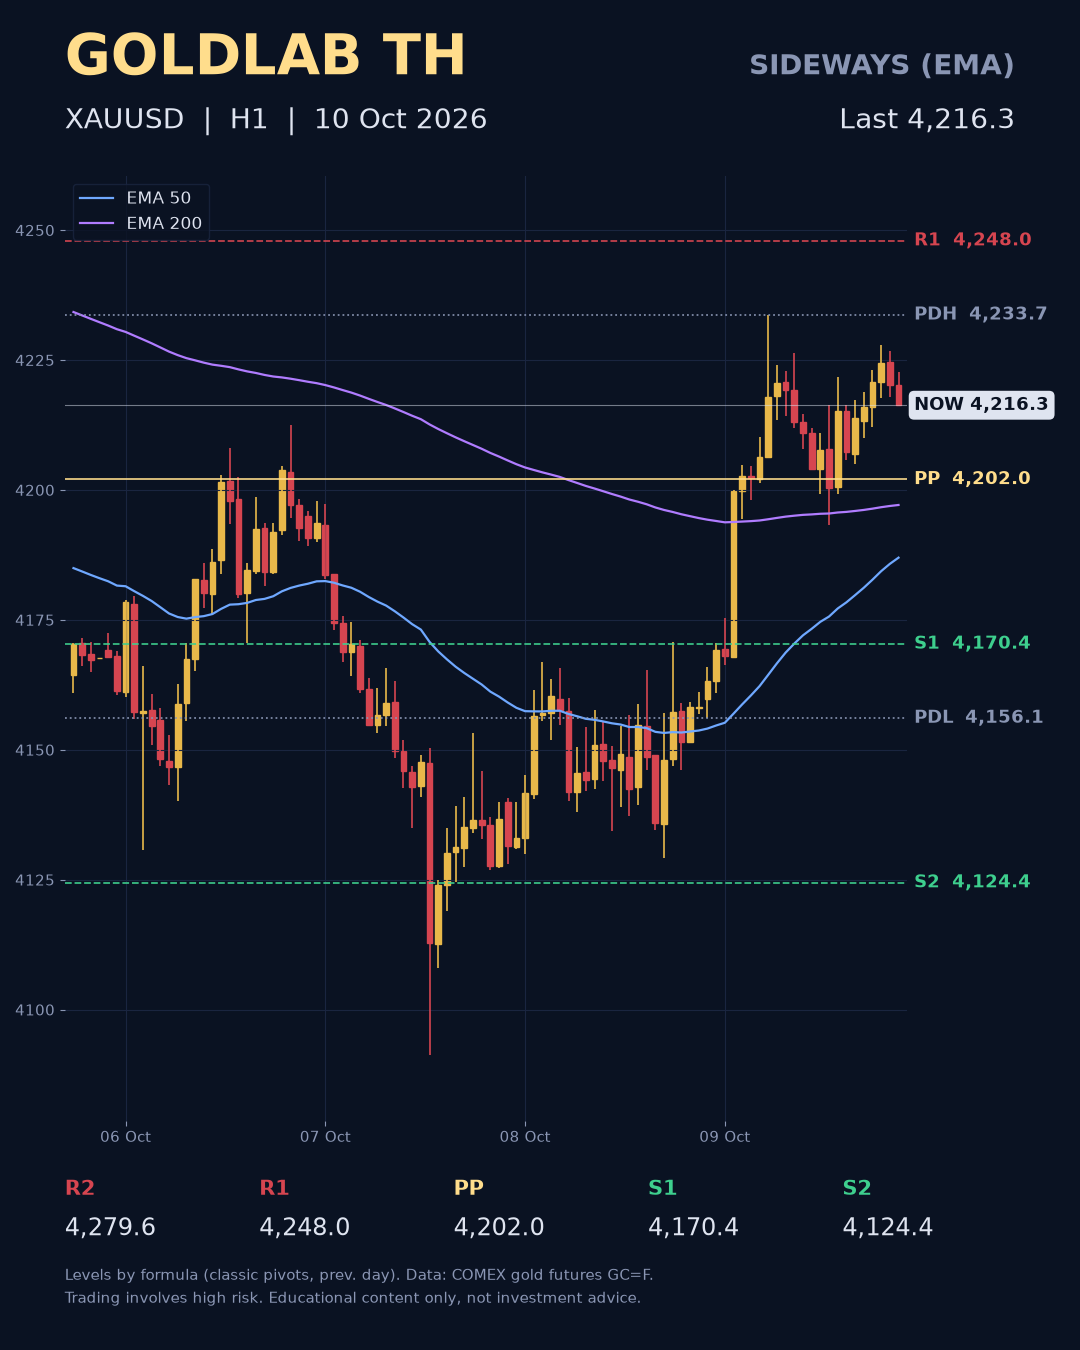
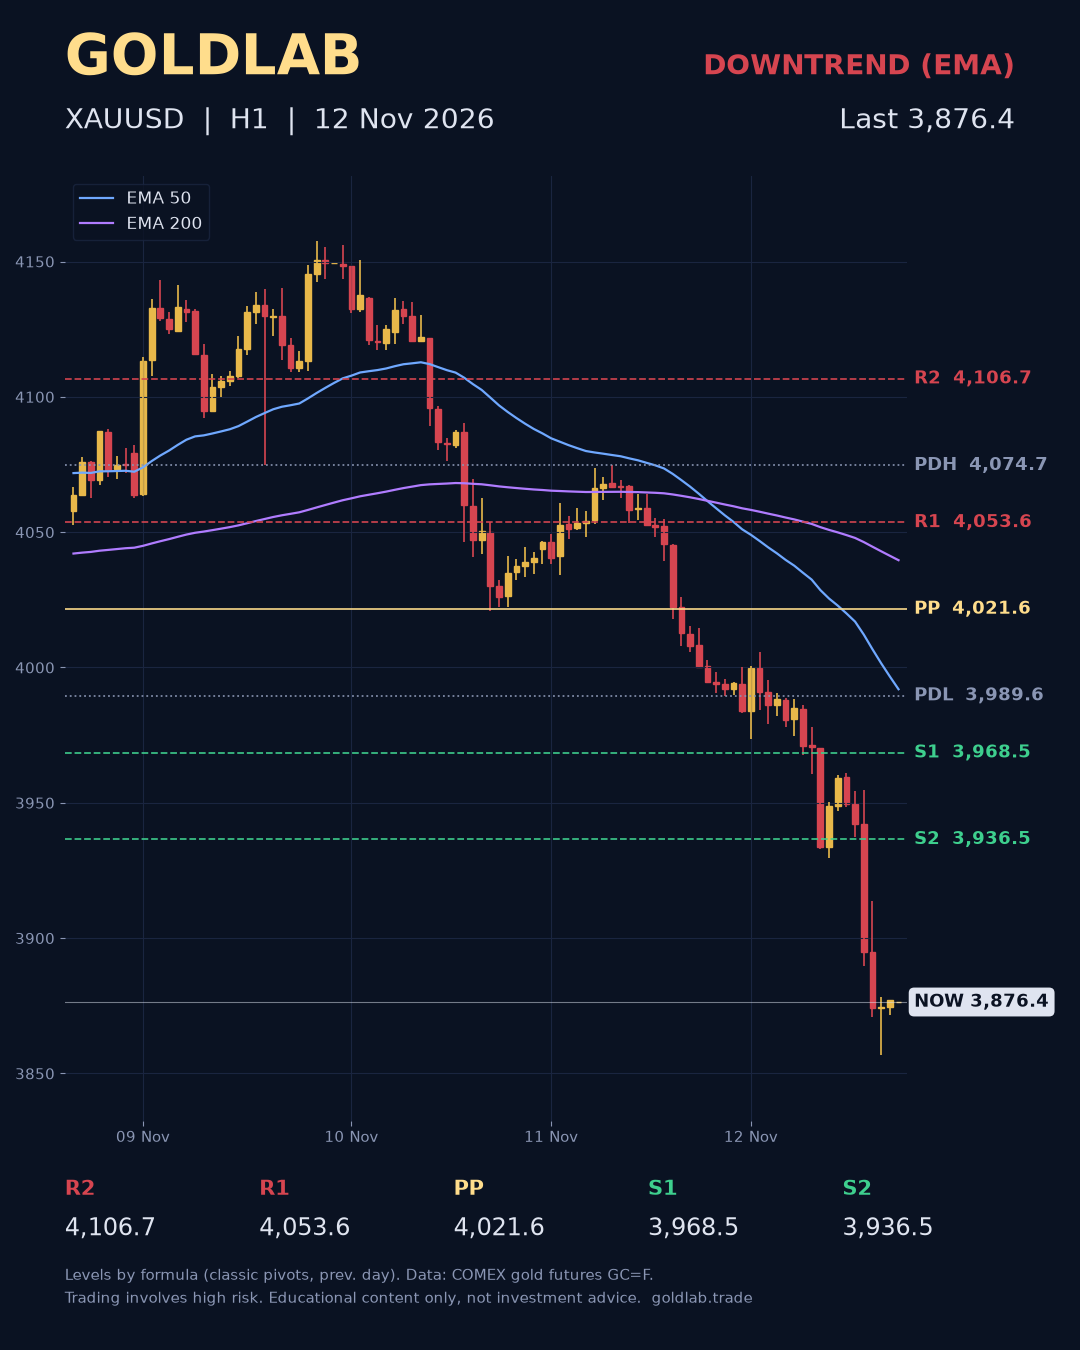
Update gold price 3,876.4 (2026-11-12 16:15 UTC)

diff --git a/th/index.html b/th/index.html
@@ -61,7 +61,7 @@
     </div>
     <figure class="chart-card">
       <img src="../assets/latest.png" alt="กราฟ XAUUSD · H1" width="1080" height="1350">
-      <figcaption class="chart-meta"><span>กราฟ XAUUSD · H1</span><span>อัปเดต <b>2026-10-10 13:10 UTC</b></span></figcaption>
+      <figcaption class="chart-meta"><span>กราฟ XAUUSD · H1</span><span>อัปเดต <b>2026-11-12 16:15 UTC</b></span></figcaption>
     </figure>
   </div>
 </section>
@@ -76,19 +76,19 @@
     <div class="levels">
       <div class="panel">
         <div class="label">ราคาล่าสุด (USD/ออนซ์)</div>
-        <div class="price-big">4,216.3</div>
-        <span class="trend ">ไซด์เวย์</span>
-        <p class="trend-note">EMA 50 และ 200 ยังไม่ยืนยันทิศทางเดียวกัน</p>
+        <div class="price-big">3,876.4</div>
+        <span class="trend down">ขาลง</span>
+        <p class="trend-note">ราคาอยู่ใต้ EMA 50 และ 200 บนกราฟ H1</p>
       </div>
       <div class="panel">
         <div class="ladder">
-          <div class="row r"><span class="tag">R2</span><span class="bar"></span><span class="val">4,279.6</span></div>
-          <div class="row r"><span class="tag">R1</span><span class="bar"></span><span class="val">4,248.0</span></div>
-          <div class="row p"><span class="tag">PIVOT</span><span class="bar"></span><span class="val">4,202.0</span></div>
-          <div class="row s"><span class="tag">S1</span><span class="bar"></span><span class="val">4,170.4</span></div>
-          <div class="row s"><span class="tag">S2</span><span class="bar"></span><span class="val">4,124.4</span></div>
+          <div class="row r"><span class="tag">R2</span><span class="bar"></span><span class="val">4,106.7</span></div>
+          <div class="row r"><span class="tag">R1</span><span class="bar"></span><span class="val">4,053.6</span></div>
+          <div class="row p"><span class="tag">PIVOT</span><span class="bar"></span><span class="val">4,021.6</span></div>
+          <div class="row s"><span class="tag">S1</span><span class="bar"></span><span class="val">3,968.5</span></div>
+          <div class="row s"><span class="tag">S2</span><span class="bar"></span><span class="val">3,936.5</span></div>
         </div>
-        <p class="src">High วันก่อน <b>4,233.7</b> · Low วันก่อน <b>4,156.1</b><br>ข้อมูล: ทองคำล่วงหน้า COMEX (GC=F) ล่าช้าประมาณ 15 นาที ราคาอาจต่างจากราคา spot ในโบรกของคุณเล็กน้อย</p>
+        <p class="src">High วันก่อน <b>4,074.7</b> · Low วันก่อน <b>3,989.6</b><br>ข้อมูล: ทองคำล่วงหน้า COMEX (GC=F) ล่าช้าประมาณ 15 นาที ราคาอาจต่างจากราคา spot ในโบรกของคุณเล็กน้อย</p>
       </div>
     </div>
   </div>

diff --git a/vi/index.html b/vi/index.html
@@ -61,7 +61,7 @@
     </div>
     <figure class="chart-card">
       <img src="../assets/latest.png" alt="Biểu đồ XAUUSD · H1" width="1080" height="1350">
-      <figcaption class="chart-meta"><span>Biểu đồ XAUUSD · H1</span><span>Cập nhật <b>2026-10-10 13:10 UTC</b></span></figcaption>
+      <figcaption class="chart-meta"><span>Biểu đồ XAUUSD · H1</span><span>Cập nhật <b>2026-11-12 16:15 UTC</b></span></figcaption>
     </figure>
   </div>
 </section>
@@ -76,19 +76,19 @@
     <div class="levels">
       <div class="panel">
         <div class="label">Giá gần nhất (USD/oz)</div>
-        <div class="price-big">4,216.3</div>
-        <span class="trend ">Đi ngang</span>
-        <p class="trend-note">EMA 50 và 200 chưa thống nhất hướng đi.</p>
+        <div class="price-big">3,876.4</div>
+        <span class="trend down">Xu hướng giảm</span>
+        <p class="trend-note">Giá nằm dưới cả EMA 50 và 200 khung H1.</p>
       </div>
       <div class="panel">
         <div class="ladder">
-          <div class="row r"><span class="tag">R2</span><span class="bar"></span><span class="val">4,279.6</span></div>
-          <div class="row r"><span class="tag">R1</span><span class="bar"></span><span class="val">4,248.0</span></div>
-          <div class="row p"><span class="tag">PIVOT</span><span class="bar"></span><span class="val">4,202.0</span></div>
-          <div class="row s"><span class="tag">S1</span><span class="bar"></span><span class="val">4,170.4</span></div>
-          <div class="row s"><span class="tag">S2</span><span class="bar"></span><span class="val">4,124.4</span></div>
+          <div class="row r"><span class="tag">R2</span><span class="bar"></span><span class="val">4,106.7</span></div>
+          <div class="row r"><span class="tag">R1</span><span class="bar"></span><span class="val">4,053.6</span></div>
+          <div class="row p"><span class="tag">PIVOT</span><span class="bar"></span><span class="val">4,021.6</span></div>
+          <div class="row s"><span class="tag">S1</span><span class="bar"></span><span class="val">3,968.5</span></div>
+          <div class="row s"><span class="tag">S2</span><span class="bar"></span><span class="val">3,936.5</span></div>
         </div>
-        <p class="src">Đỉnh phiên trước <b>4,233.7</b> · Đáy phiên trước <b>4,156.1</b><br>Dữ liệu: hợp đồng vàng tương lai COMEX (GC=F), trễ khoảng 15 phút. Giá có thể chênh vài đô la so với giá spot của sàn bạn dùng.</p>
+        <p class="src">Đỉnh phiên trước <b>4,074.7</b> · Đáy phiên trước <b>3,989.6</b><br>Dữ liệu: hợp đồng vàng tương lai COMEX (GC=F), trễ khoảng 15 phút. Giá có thể chênh vài đô la so với giá spot của sàn bạn dùng.</p>
       </div>
     </div>
   </div>

diff --git a/es/index.html b/es/index.html
@@ -61,7 +61,7 @@
     </div>
     <figure class="chart-card">
       <img src="../assets/latest.png" alt="Gráfico XAUUSD · H1" width="1080" height="1350">
-      <figcaption class="chart-meta"><span>Gráfico XAUUSD · H1</span><span>Actualizado <b>2026-10-10 13:10 UTC</b></span></figcaption>
+      <figcaption class="chart-meta"><span>Gráfico XAUUSD · H1</span><span>Actualizado <b>2026-11-12 16:15 UTC</b></span></figcaption>
     </figure>
   </div>
 </section>
@@ -76,19 +76,19 @@
     <div class="levels">
       <div class="panel">
         <div class="label">Último precio (USD/oz)</div>
-        <div class="price-big">4,216.3</div>
-        <span class="trend ">Lateral</span>
-        <p class="trend-note">La EMA 50 y la EMA 200 aún no coinciden en la dirección.</p>
+        <div class="price-big">3,876.4</div>
+        <span class="trend down">Tendencia bajista</span>
+        <p class="trend-note">El precio está por debajo de la EMA 50 y 200 en H1.</p>
       </div>
       <div class="panel">
         <div class="ladder">
-          <div class="row r"><span class="tag">R2</span><span class="bar"></span><span class="val">4,279.6</span></div>
-          <div class="row r"><span class="tag">R1</span><span class="bar"></span><span class="val">4,248.0</span></div>
-          <div class="row p"><span class="tag">PIVOT</span><span class="bar"></span><span class="val">4,202.0</span></div>
-          <div class="row s"><span class="tag">S1</span><span class="bar"></span><span class="val">4,170.4</span></div>
-          <div class="row s"><span class="tag">S2</span><span class="bar"></span><span class="val">4,124.4</span></div>
+          <div class="row r"><span class="tag">R2</span><span class="bar"></span><span class="val">4,106.7</span></div>
+          <div class="row r"><span class="tag">R1</span><span class="bar"></span><span class="val">4,053.6</span></div>
+          <div class="row p"><span class="tag">PIVOT</span><span class="bar"></span><span class="val">4,021.6</span></div>
+          <div class="row s"><span class="tag">S1</span><span class="bar"></span><span class="val">3,968.5</span></div>
+          <div class="row s"><span class="tag">S2</span><span class="bar"></span><span class="val">3,936.5</span></div>
         </div>
-        <p class="src">Máximo anterior <b>4,233.7</b> · Mínimo anterior <b>4,156.1</b><br>Datos: futuros de oro COMEX (GC=F), con ~15 min de retraso. Pueden diferir unos dólares del precio spot de tu bróker.</p>
+        <p class="src">Máximo anterior <b>4,074.7</b> · Mínimo anterior <b>3,989.6</b><br>Datos: futuros de oro COMEX (GC=F), con ~15 min de retraso. Pueden diferir unos dólares del precio spot de tu bróker.</p>
       </div>
     </div>
   </div>

diff --git a/id/index.html b/id/index.html
@@ -61,7 +61,7 @@
     </div>
     <figure class="chart-card">
       <img src="../assets/latest.png" alt="Grafik XAUUSD · H1" width="1080" height="1350">
-      <figcaption class="chart-meta"><span>Grafik XAUUSD · H1</span><span>Diperbarui <b>2026-10-10 13:10 UTC</b></span></figcaption>
+      <figcaption class="chart-meta"><span>Grafik XAUUSD · H1</span><span>Diperbarui <b>2026-11-12 16:15 UTC</b></span></figcaption>
     </figure>
   </div>
 </section>
@@ -76,19 +76,19 @@
     <div class="levels">
       <div class="panel">
         <div class="label">Harga terakhir (USD/oz)</div>
-        <div class="price-big">4,216.3</div>
-        <span class="trend ">Sideways</span>
-        <p class="trend-note">EMA 50 dan 200 belum sepakat soal arah.</p>
+        <div class="price-big">3,876.4</div>
+        <span class="trend down">Tren turun</span>
+        <p class="trend-note">Harga berada di bawah EMA 50 dan 200 pada H1.</p>
       </div>
       <div class="panel">
         <div class="ladder">
-          <div class="row r"><span class="tag">R2</span><span class="bar"></span><span class="val">4,279.6</span></div>
-          <div class="row r"><span class="tag">R1</span><span class="bar"></span><span class="val">4,248.0</span></div>
-          <div class="row p"><span class="tag">PIVOT</span><span class="bar"></span><span class="val">4,202.0</span></div>
-          <div class="row s"><span class="tag">S1</span><span class="bar"></span><span class="val">4,170.4</span></div>
-          <div class="row s"><span class="tag">S2</span><span class="bar"></span><span class="val">4,124.4</span></div>
+          <div class="row r"><span class="tag">R2</span><span class="bar"></span><span class="val">4,106.7</span></div>
+          <div class="row r"><span class="tag">R1</span><span class="bar"></span><span class="val">4,053.6</span></div>
+          <div class="row p"><span class="tag">PIVOT</span><span class="bar"></span><span class="val">4,021.6</span></div>
+          <div class="row s"><span class="tag">S1</span><span class="bar"></span><span class="val">3,968.5</span></div>
+          <div class="row s"><span class="tag">S2</span><span class="bar"></span><span class="val">3,936.5</span></div>
         </div>
-        <p class="src">High sebelumnya <b>4,233.7</b> · Low sebelumnya <b>4,156.1</b><br>Data: emas berjangka COMEX (GC=F), tertunda ~15 menit. Harga bisa berbeda beberapa dolar dari harga spot broker Anda.</p>
+        <p class="src">High sebelumnya <b>4,074.7</b> · Low sebelumnya <b>3,989.6</b><br>Data: emas berjangka COMEX (GC=F), tertunda ~15 menit. Harga bisa berbeda beberapa dolar dari harga spot broker Anda.</p>
       </div>
     </div>
   </div>

diff --git a/index.html b/index.html
@@ -61,7 +61,7 @@
     </div>
     <figure class="chart-card">
       <img src="assets/latest.png" alt="XAUUSD · H1 chart" width="1080" height="1350">
-      <figcaption class="chart-meta"><span>XAUUSD · H1 chart</span><span>Updated <b>2026-10-10 13:10 UTC</b></span></figcaption>
+      <figcaption class="chart-meta"><span>XAUUSD · H1 chart</span><span>Updated <b>2026-11-12 16:15 UTC</b></span></figcaption>
     </figure>
   </div>
 </section>
@@ -76,19 +76,19 @@
     <div class="levels">
       <div class="panel">
         <div class="label">Last price (USD/oz)</div>
-        <div class="price-big">4,216.3</div>
-        <span class="trend ">Sideways</span>
-        <p class="trend-note">The 50 and 200 EMA do not agree on a direction yet.</p>
+        <div class="price-big">3,876.4</div>
+        <span class="trend down">Downtrend</span>
+        <p class="trend-note">Price is below both the 50 and 200 EMA on H1.</p>
       </div>
       <div class="panel">
         <div class="ladder">
-          <div class="row r"><span class="tag">R2</span><span class="bar"></span><span class="val">4,279.6</span></div>
-          <div class="row r"><span class="tag">R1</span><span class="bar"></span><span class="val">4,248.0</span></div>
-          <div class="row p"><span class="tag">PIVOT</span><span class="bar"></span><span class="val">4,202.0</span></div>
-          <div class="row s"><span class="tag">S1</span><span class="bar"></span><span class="val">4,170.4</span></div>
-          <div class="row s"><span class="tag">S2</span><span class="bar"></span><span class="val">4,124.4</span></div>
+          <div class="row r"><span class="tag">R2</span><span class="bar"></span><span class="val">4,106.7</span></div>
+          <div class="row r"><span class="tag">R1</span><span class="bar"></span><span class="val">4,053.6</span></div>
+          <div class="row p"><span class="tag">PIVOT</span><span class="bar"></span><span class="val">4,021.6</span></div>
+          <div class="row s"><span class="tag">S1</span><span class="bar"></span><span class="val">3,968.5</span></div>
+          <div class="row s"><span class="tag">S2</span><span class="bar"></span><span class="val">3,936.5</span></div>
         </div>
-        <p class="src">Previous high <b>4,233.7</b> · Previous low <b>4,156.1</b><br>Data: COMEX gold futures (GC=F), delayed ~15 min. Quotes can differ from your broker's spot price by a few dollars.</p>
+        <p class="src">Previous high <b>4,074.7</b> · Previous low <b>3,989.6</b><br>Data: COMEX gold futures (GC=F), delayed ~15 min. Quotes can differ from your broker's spot price by a few dollars.</p>
       </div>
     </div>
   </div>
